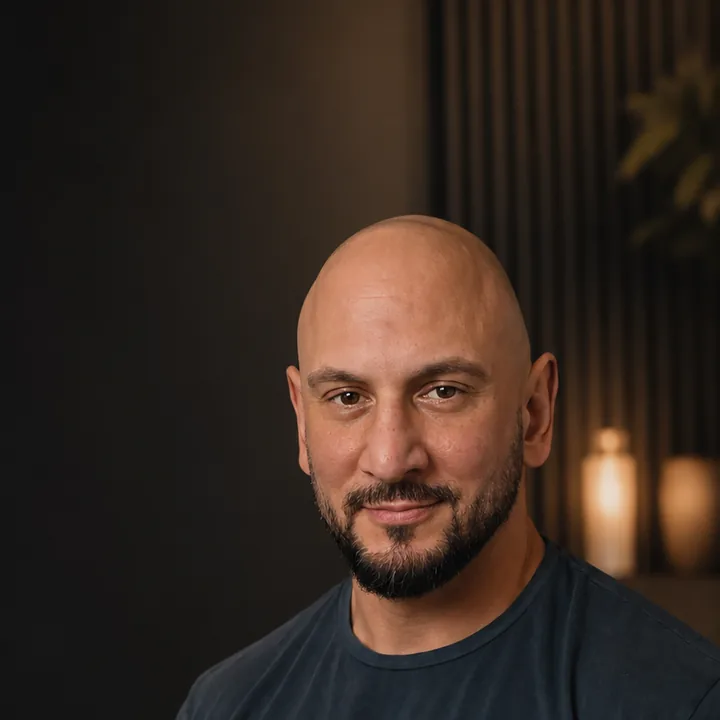
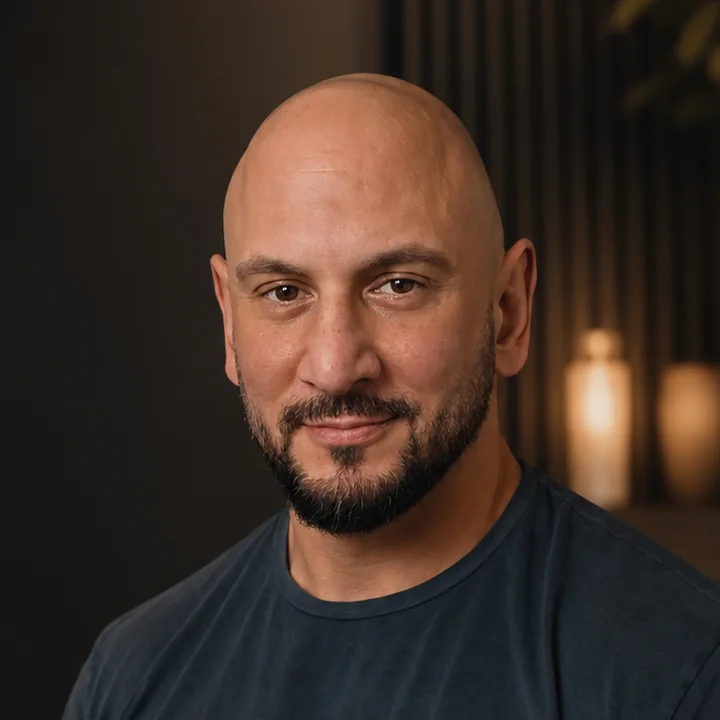
Add files via upload

diff --git a/style.css b/style.css
@@ -42,7 +42,7 @@ h1,h2,h3,h4,.mark,.price,.footer-mark,.lead,.pull,.invite,.gift-lead,.boundary,.
 h2{font-size:clamp(1.65rem,5.2vw,2.5rem);line-height:1.22;font-weight:700;letter-spacing:-.012em;color:var(--brown);text-wrap:balance}
 h3{font-size:1.2rem;line-height:1.3;font-weight:700;color:var(--brown)}
 .big{font-size:1.1rem;line-height:1.7}
-.label{display:flex;align-items:center;gap:12px;font-size:.8rem;font-weight:800;letter-spacing:.16em;text-transform:uppercase;color:var(--green);margin-bottom:18px}
+.label{display:flex;align-items:center;gap:12px;font-size:1rem;font-weight:800;letter-spacing:.14em;text-transform:uppercase;color:var(--green);margin-bottom:18px}
 .label::before{content:"";width:28px;height:2px;background:var(--gold);flex:none}
 .label-light{color:var(--gold-soft)}
 .tag{display:inline-block;font-size:.76rem;font-weight:800;letter-spacing:.16em;text-transform:uppercase;color:var(--gold-soft);margin-bottom:14px}
@@ -81,7 +81,7 @@ h3{font-size:1.2rem;line-height:1.3;font-weight:700;color:var(--brown)}
 .site-header.is-scrolled{background:rgba(255,253,249,.96);border-bottom-color:var(--line);box-shadow:0 8px 24px -18px rgba(51,32,15,.45)}
 .bar{display:flex;align-items:center;gap:14px;min-height:68px;transition:min-height .25s}
 .site-header.is-scrolled .bar{min-height:60px}
-.mark{display:inline-flex;align-items:center;gap:10px;font-size:1.15rem;font-weight:800;color:var(--green);text-decoration:none;letter-spacing:-.01em;white-space:nowrap;margin-right:auto}
+.mark{display:inline-flex;align-items:center;gap:10px;font-size:1.3rem;font-weight:800;color:var(--green);text-decoration:none;letter-spacing:-.01em;white-space:nowrap;margin-right:auto}
 .mark-dot{width:11px;height:11px;border-radius:50%;background:var(--gold);box-shadow:0 0 0 4px rgba(218,163,92,.25)}
 .nav-desktop{display:none}
 .nav-desktop a{font-weight:650;color:var(--brown);text-decoration:none;padding:8px 2px;background:linear-gradient(var(--gold),var(--gold)) 0 100%/0 2px no-repeat;transition:background-size .25s}
@@ -97,13 +97,14 @@ h3{font-size:1.2rem;line-height:1.3;font-weight:700;color:var(--brown)}
 .burger[aria-expanded="true"] i:nth-child(3){top:19px;transform:rotate(-45deg)}
 .nav-fallback{display:flex;flex-wrap:wrap;gap:6px 22px;padding:10px var(--pad) 14px;background:var(--cream)}
 .nav-fallback a{font-weight:700;color:var(--brown)}
-@media (min-width:600px){.bar-cta{display:inline-flex}}
+@media (min-width:600px){.bar-cta{display:inline-flex;min-height:48px;padding:10px 22px;font-size:1.06rem;white-space:nowrap}}
 @media (min-width:960px){
   .burger{display:none}
-  .nav-desktop{display:flex;gap:34px;margin-right:18px;font-size:1rem}
+  .nav-desktop{display:flex;gap:clamp(18px,2.4vw,34px);margin-right:clamp(8px,1.5vw,18px);font-size:1.12rem;white-space:nowrap}
   .bar{min-height:80px}
   .site-header.is-scrolled .bar{min-height:66px}
-  .mark{font-size:1.3rem}
+  .mark{font-size:1.5rem}
+  .nav-desktop a{font-size:1.12rem}
 }
 
 /* Mobiles Menü (Overlay) */
@@ -132,7 +133,7 @@ h3{font-size:1.2rem;line-height:1.3;font-weight:700;color:var(--brown)}
 .hero{background:var(--cream);padding-top:clamp(28px,5vw,64px);position:relative;overflow:hidden}
 .hero::before{content:"";position:absolute;right:-8%;top:-30%;width:62vw;height:62vw;max-width:760px;max-height:760px;border-radius:50%;background:radial-gradient(closest-side,rgba(218,163,92,.22),transparent);pointer-events:none}
 .hero-grid{position:relative;display:grid;gap:36px}
-.kicker{display:flex;align-items:center;gap:12px;color:var(--green);font-weight:800;font-size:.8rem;letter-spacing:.16em;text-transform:uppercase;margin-bottom:18px}
+.kicker{display:flex;align-items:center;gap:12px;color:var(--green);font-weight:800;font-size:1rem;letter-spacing:.14em;text-transform:uppercase;margin-bottom:18px}
 .kicker::before{content:"";width:28px;height:2px;background:var(--gold)}
 .hero h1{font-size:clamp(2.5rem,10.5vw,4.4rem);line-height:1.05;font-weight:800;letter-spacing:-.025em;color:var(--green);margin-bottom:22px}
 .lead{font-size:clamp(1.25rem,4.6vw,1.65rem);line-height:1.45;font-weight:400;color:var(--brown);max-width:21em;margin-bottom:22px}
@@ -140,10 +141,8 @@ h3{font-size:1.2rem;line-height:1.3;font-weight:700;color:var(--brown)}
 .hero-invite{font-weight:700;font-size:1.1rem;line-height:1.55;margin-top:16px;max-width:29em;color:var(--green)}
 .hero-cta{display:flex;flex-direction:column;align-items:flex-start;gap:18px;margin-top:28px}
 .hero-cta .btn{width:100%}
-.hero-photo{position:relative;justify-self:start;width:calc(100% - 16px);max-width:460px;isolation:isolate}
-.hero-photo::before{content:"";position:absolute;inset:18px -16px -16px 18px;background:var(--green);border-radius:28px;z-index:-1}
-.hero-photo::after{content:"";position:absolute;inset:-12px 22px 22px -12px;border:2px solid var(--gold);border-radius:28px;z-index:-1}
-.hero-photo picture{display:block;border-radius:28px;overflow:hidden;aspect-ratio:4/4.4;background:var(--cream-deep)}
+.hero-photo{position:relative;justify-self:start;width:100%;max-width:460px;isolation:isolate}
+.hero-photo picture{display:block;border-radius:28px;overflow:hidden;aspect-ratio:4/4.4;background:var(--cream-deep);box-shadow:0 26px 50px -28px rgba(51,32,15,.5)}
 .hero-photo img{width:100%;height:100%;object-fit:cover;object-position:50% 16%}
 .facts{display:grid;gap:0;margin-top:clamp(40px,6vw,72px);border-top:1px solid var(--line)}
 .facts li{position:relative;padding:15px 0 15px 28px;font-weight:650;color:var(--brown);border-bottom:1px solid var(--line);font-size:.98rem}
@@ -242,7 +241,7 @@ h3{font-size:1.2rem;line-height:1.3;font-weight:700;color:var(--brown)}
 
 /* Angebote */
 .offer-cols{display:grid;gap:clamp(40px,5vw,56px)}
-.group-title{font-size:.8rem;font-family:var(--sans);font-weight:800;letter-spacing:.16em;text-transform:uppercase;color:var(--green);padding-bottom:14px;border-bottom:2px solid var(--green);margin-bottom:18px}
+.group-title{font-size:1.2rem;font-family:var(--sans);font-weight:800;letter-spacing:.06em;text-transform:uppercase;color:var(--green);padding-bottom:14px;border-bottom:2px solid var(--green);margin-bottom:18px}
 .offers{display:grid;gap:14px}
 .offer{display:grid;gap:8px;justify-items:start;background:var(--cream);border-radius:var(--r);padding:20px 22px 20px;transition:box-shadow .25s,transform .25s}
 .offer:hover{box-shadow:0 20px 34px -26px rgba(99,53,20,.7);transform:translateY(-2px)}
@@ -287,12 +286,11 @@ h3{font-size:1.2rem;line-height:1.3;font-weight:700;color:var(--brown)}
   .about-photo picture{aspect-ratio:4/5}
   .about-text .btn{width:auto}
   .about-photo{margin-inline:0;max-width:560px;justify-self:start}
-  .about-photo picture{border-radius:28px}
+  .about-photo picture{border-radius:28px;box-shadow:0 26px 50px -26px rgba(0,0,0,.55)}
 }
 @media (min-width:900px){
   .about-grid{grid-template-columns:1.02fr 1fr;column-gap:clamp(48px,6vw,96px);align-items:start}
   .about-photo{max-width:none;justify-self:stretch;position:sticky;top:110px}
-  .about-photo::before{content:"";position:absolute;inset:-14px 18px 18px -14px;border:2px solid var(--gold);border-radius:28px;z-index:-1}
   .about-photo picture{aspect-ratio:4/5.2}
 }
 
@@ -331,9 +329,8 @@ h3{font-size:1.2rem;line-height:1.3;font-weight:700;color:var(--brown)}
 .contact-cta{display:flex;flex-direction:column;gap:12px;margin-top:30px}
 .contact-lines{display:grid;gap:10px;margin-top:30px}
 .contact-line{font-size:1.08rem;font-weight:650;text-underline-offset:.24em;text-decoration-thickness:2px;text-decoration-color:var(--gold);overflow-wrap:anywhere}
-.contact-photo{position:relative;isolation:isolate;max-width:320px;width:calc(100% - 14px)}
-.contact-photo::before{content:"";position:absolute;inset:14px -14px -14px 14px;border:2px solid var(--gold);border-radius:28px;z-index:-1}
-.contact-photo picture{display:block;border-radius:28px;overflow:hidden;aspect-ratio:1}
+.contact-photo{position:relative;isolation:isolate;max-width:320px;width:100%}
+.contact-photo picture{display:block;border-radius:28px;overflow:hidden;aspect-ratio:1;box-shadow:0 26px 50px -26px rgba(0,0,0,.55)}
 .contact-photo img{width:100%;height:100%;object-fit:cover}
 @media (min-width:600px){.contact-cta{flex-direction:row;flex-wrap:wrap}}
 @media (min-width:860px){

diff --git a/index.html b/index.html
@@ -251,7 +251,7 @@
       </div>
 
       <div class="offer-group">
-        <h3 class="group-title">Mitgliedschaft</h3>
+        <h3 class="group-title">Mitgliedschaften</h3>
         <ul class="offers">
           <li class="offer">
             <div class="offer-top">
